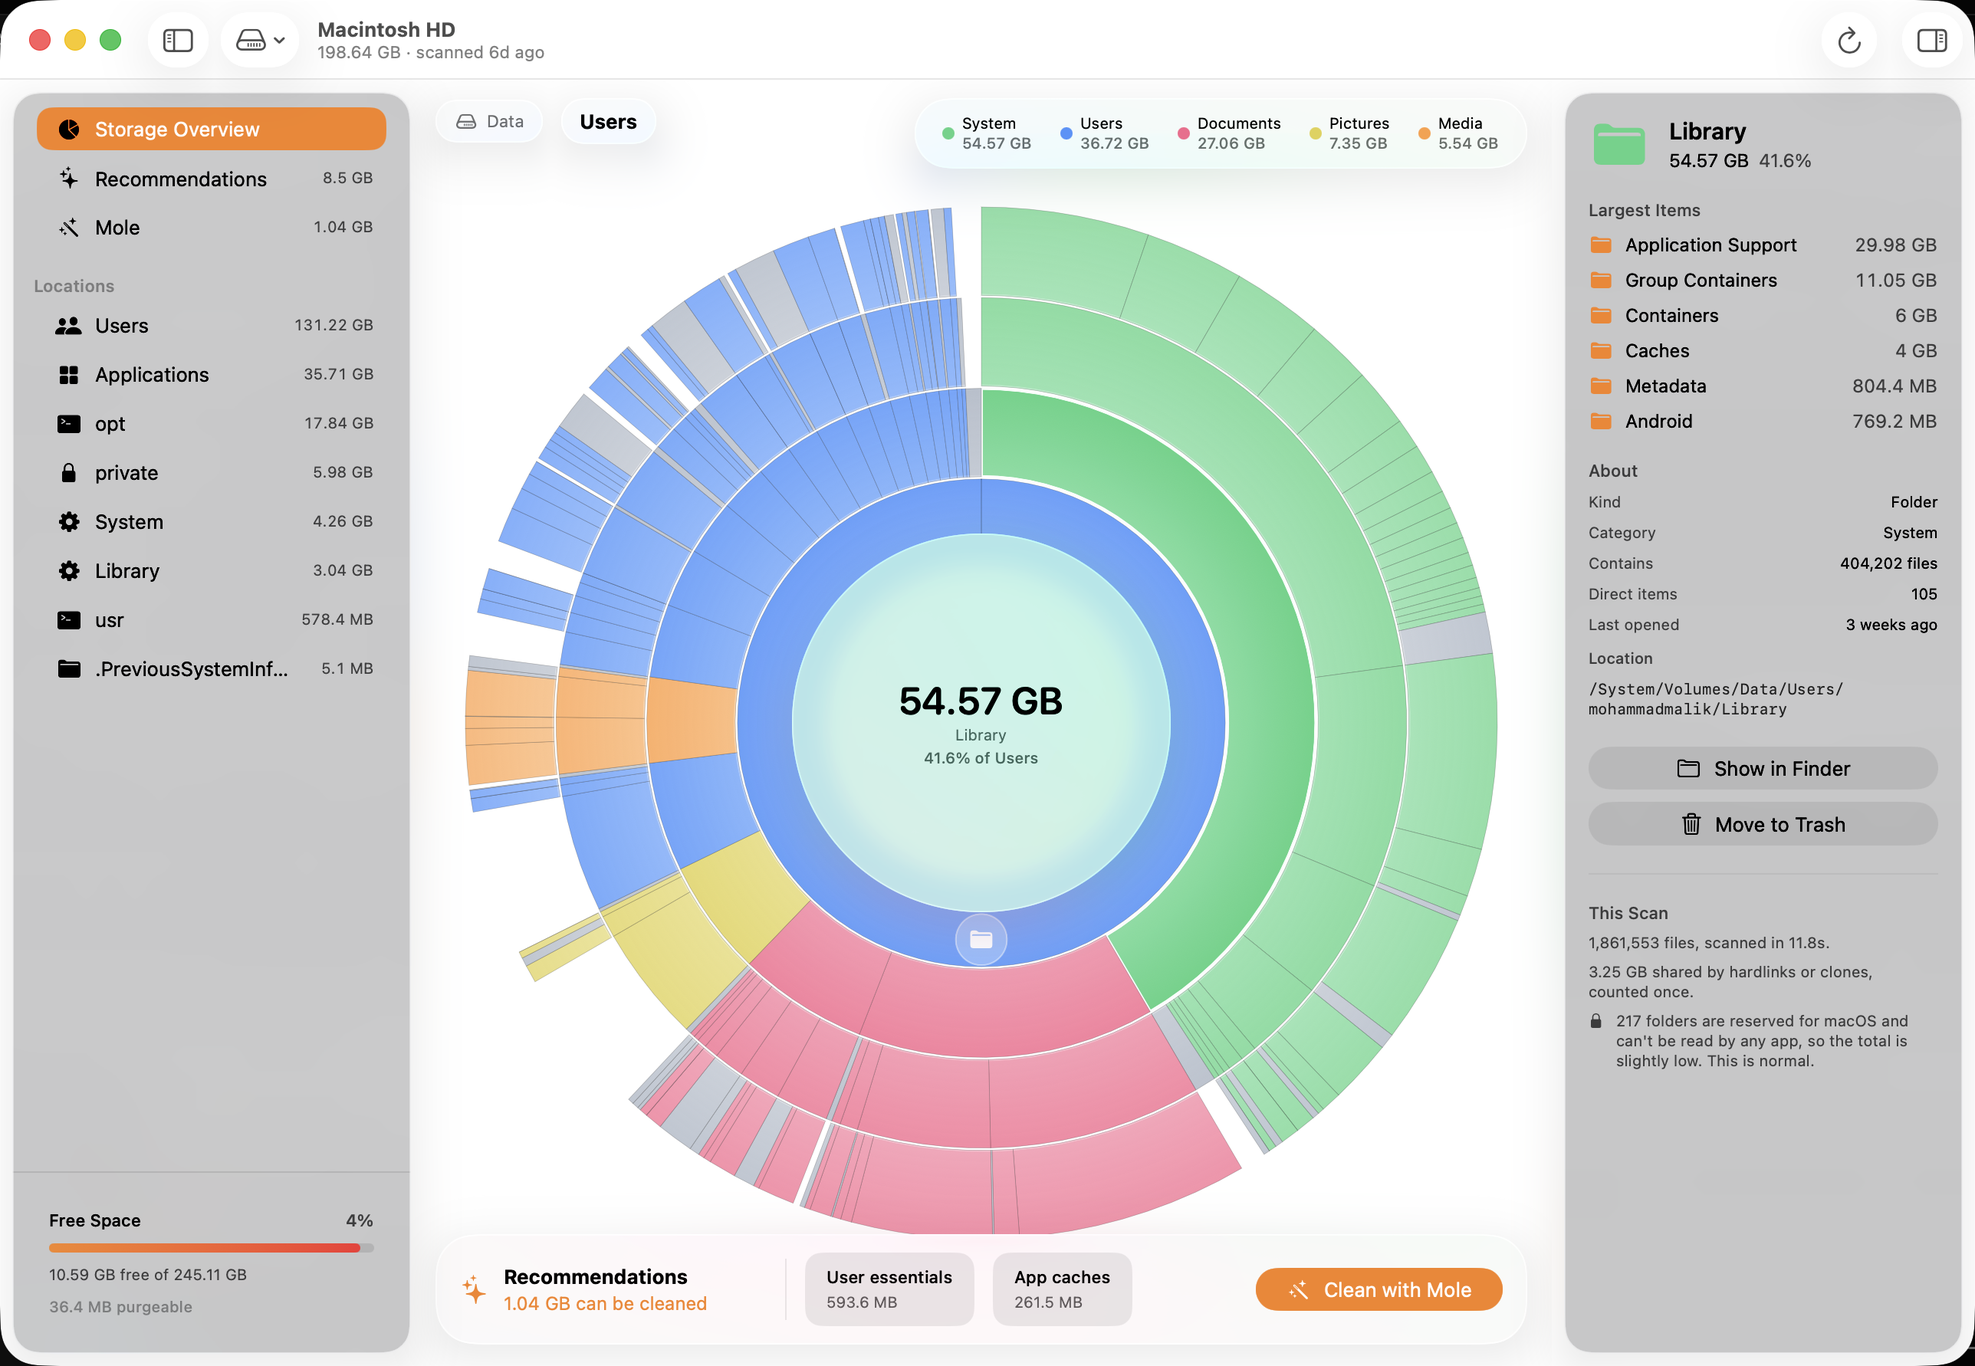
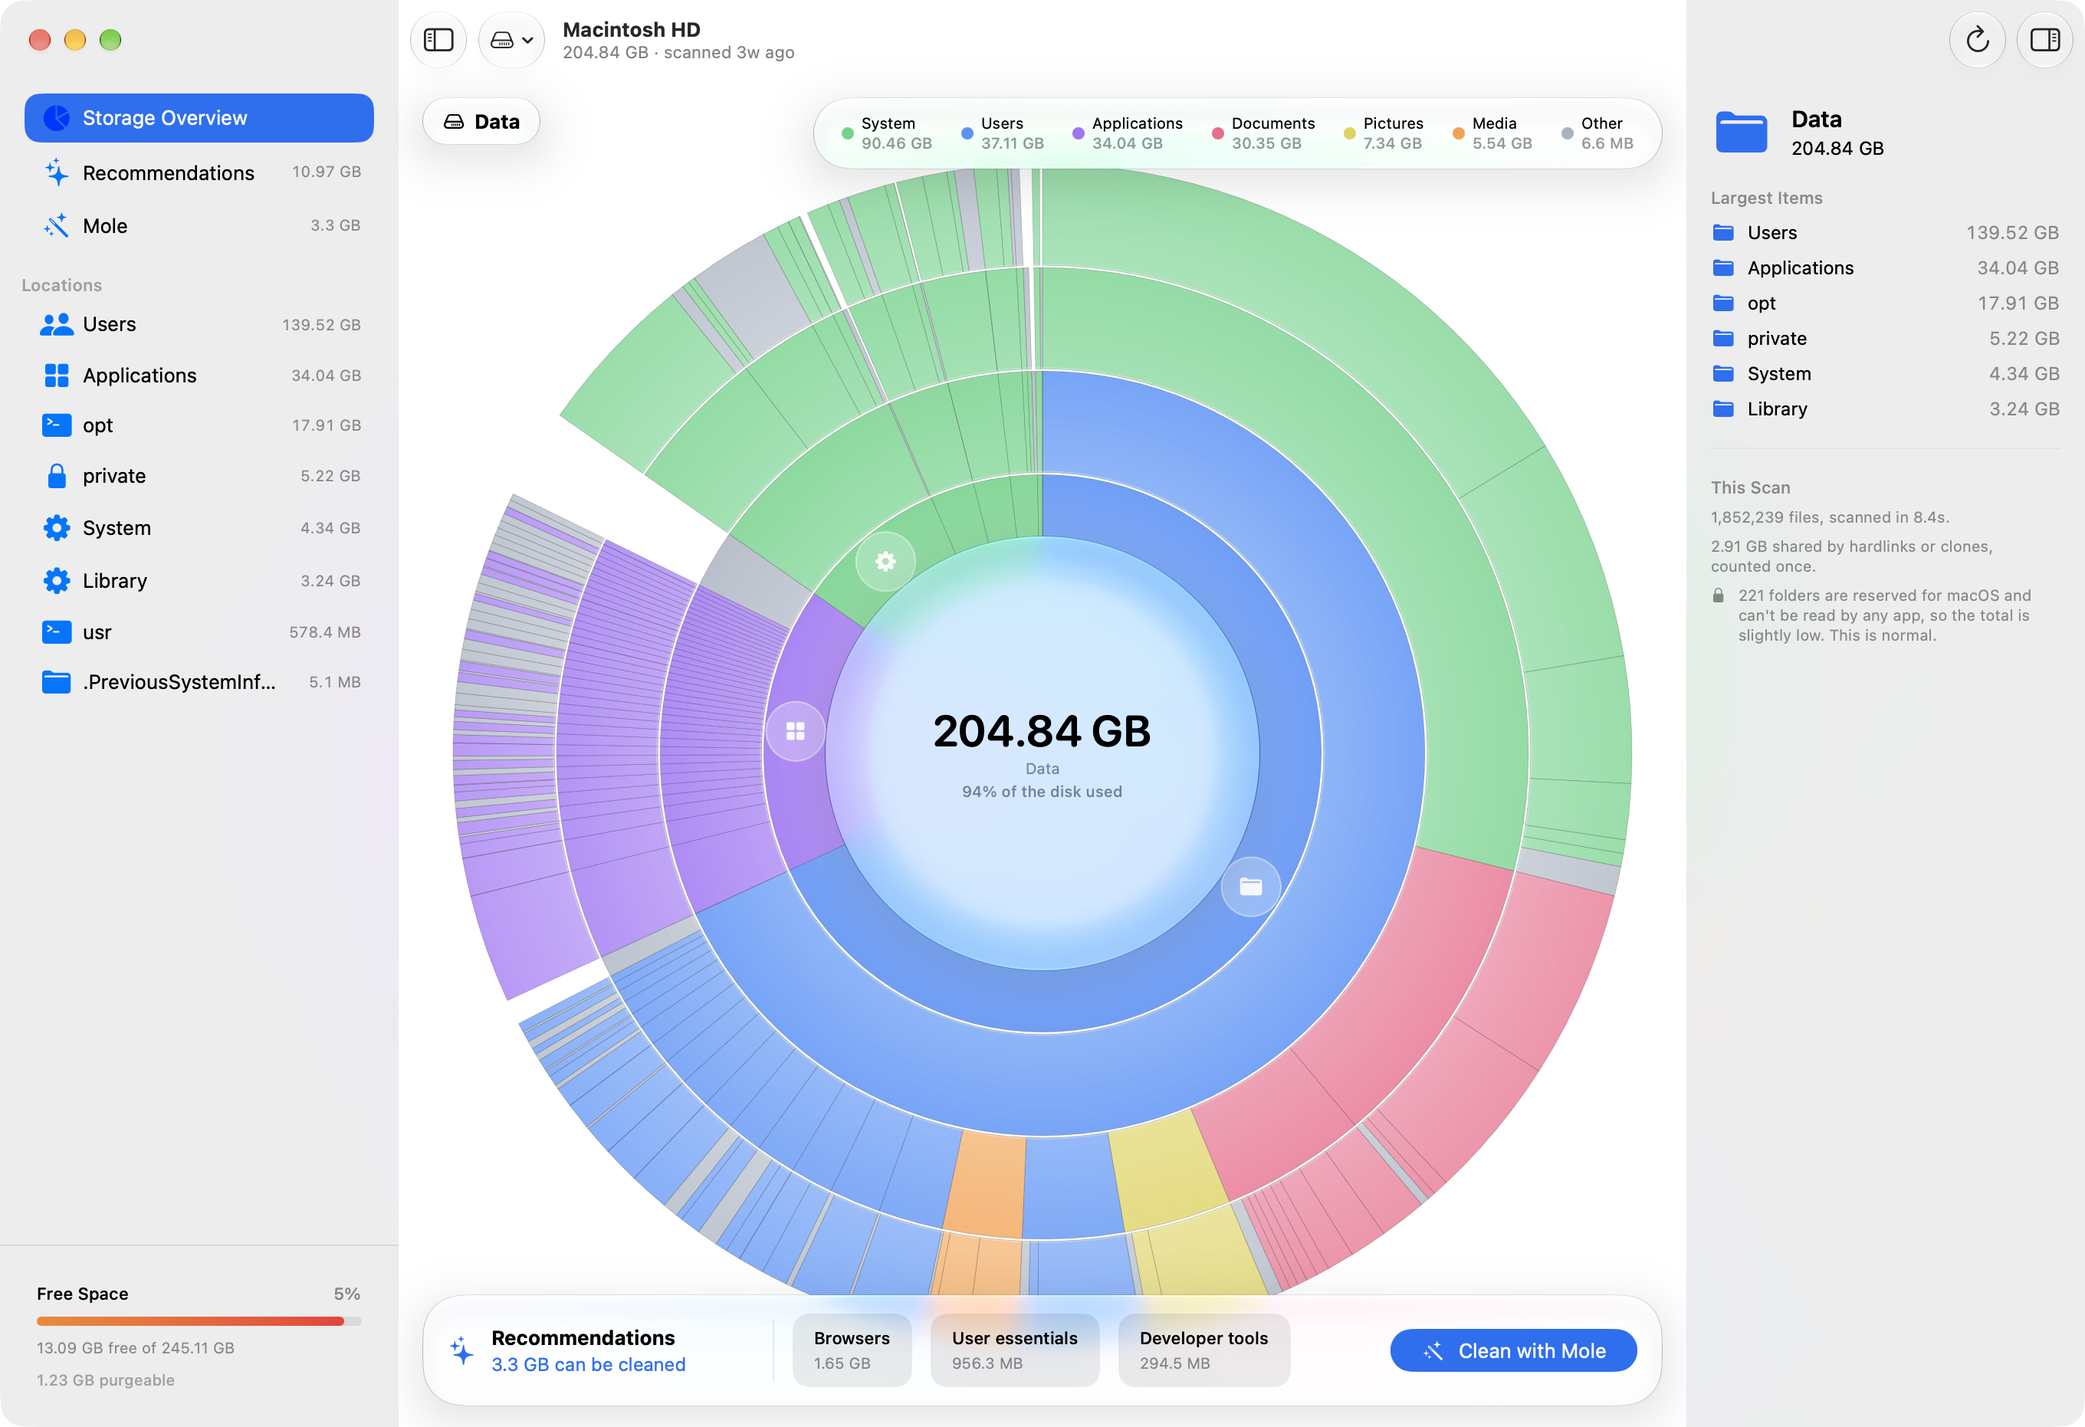
Follow macOS 27's window chrome, and fix the build on it
Three things the new version draws differently, each chosen at launch from the
version actually running so macOS 26 keeps the appearance it shipped with.

A blurred band ran the width of the window under the toolbar, with the
breadcrumb and the legend smeared into it. It is a toolbar's scroll edge
effect: AppKit installs one per titlebar region, hands it to a region whose
items own a scroll view, and gives the rest a full-size one instead. The column
holding the chart has no scroll view, so 27 blurs the column itself. A
transparent titlebar is the only thing that stops it. SwiftUI's
scrollEdgeEffectHidden does nothing from inside the hosted view, at the chart or
at the root, because the effect belongs to the titlebar rather than to the
hosting view, and titlebarSeparatorStyle of .none changes nothing on the item,
the window, or both.

The sidebar and inspector are flush and full height now, the traffic lights
sitting on the sidebar, as Finder and System Settings draw them. That needed the
split view to reach the top of the window, which SwiftUI would not do while the
representable sat inside the window's safe area, and it needed our own
NSVisualEffectView out of the sidebar, which is what Apple's guidance says and
what 27 enforces by drawing the material itself. The 8pt spacer that held the
inspector clear of the window edge collapses to nothing, having existed to
balance an inset the system no longer applies.
[…]

diff --git a/Sources/Disker/Views/Shell/SplitShell.swift b/Sources/Disker/Views/Shell/SplitShell.swift
@@ -2,6 +2,22 @@ import AppKit
 import DiskerCore
 import SwiftUI
 
+/// Which version's window chrome to build.
+///
+/// macOS 26 and 27 disagree about what a sidebar is. On 26 it is an inset panel floating over
+/// the content, rounded on all four corners and held clear of the window edges. On 27 it is
+/// flush: square, hard against the edges, running the full height of the window with the
+/// traffic lights on it, the way System Settings and Finder draw it. The window is built for
+/// whichever one is running rather than picking a side, so 26 keeps the look it shipped with.
+///
+/// Asked at runtime rather than with `#available`, because the app builds against the macOS 26
+/// SDK — the newest the Command Line Tools ship that can compile SwiftUI at all — and
+/// `#available(macOS 27, *)` does not come out true against an SDK that has never heard of 27.
+enum SystemLook {
+    static let isFlushSidebar = ProcessInfo.processInfo.isOperatingSystemAtLeast(
+        OperatingSystemVersion(majorVersion: 27, minorVersion: 0, patchVersion: 0))
+}
+
 /// The window's split view, in AppKit rather than SwiftUI.
 ///
 /// `NavigationSplitView` paints opaque column backgrounds, and SwiftUI offers no way to opt
@@ -54,11 +70,19 @@ struct SplitShell: NSViewControllerRepresentable {
         sidebarItem.minimumThickness = 260
         sidebarItem.maximumThickness = 320
         sidebarItem.canCollapse = true
-        // A full-height sidebar splits the titlebar into two regions, so leading toolbar
-        // items are laid out after the sidebar and slide sideways every time it collapses.
-        // Keeping the sidebar below the titlebar leaves one continuous region, which pins
-        // those items next to the traffic lights.
-        sidebarItem.allowsFullHeightLayout = false
+        // Full height on macOS 27, below the titlebar on 26.
+        //
+        // The two versions want opposite things here. On 26 a sidebar item renders as an inset
+        // panel floating over the content, and a full-height one splits the titlebar into two
+        // regions — which lays the leading toolbar items out after the sidebar so they slide
+        // sideways every time it collapses. Staying below the titlebar avoided that.
+        //
+        // macOS 27 dropped the floating panel: sidebars are flush, and they run the whole
+        // height of the window with the traffic lights sitting on them, as System Settings and
+        // Finder do. Held below the titlebar there, the column reads as a slab that starts in
+        // the wrong place. The separator goes back to automatic to get the hairline the system
+        // draws down the flush edge.
+        sidebarItem.allowsFullHeightLayout = SystemLook.isFlushSidebar
         sidebarItem.titlebarSeparatorStyle = .none
 
         let detailHost = NSHostingController(rootView: DetailView(model: model))
@@ -88,10 +112,9 @@ struct SplitShell: NSViewControllerRepresentable {
         inspectorItem.minimumThickness = 260
         inspectorItem.maximumThickness = 400
         inspectorItem.canCollapse = true
-        // Same reasoning as the leading sidebar: a full-height column would split the titlebar
-        // into separate regions and shift the toolbar items every time it collapses.
-        inspectorItem.allowsFullHeightLayout = false
-        inspectorItem.titlebarSeparatorStyle = .none
+        // Mirrors the leading sidebar on both versions, for the same reasons.
+        inspectorItem.allowsFullHeightLayout = SystemLook.isFlushSidebar
+        inspectorItem.titlebarSeparatorStyle = SystemLook.isFlushSidebar ? .automatic : .none
         inspectorItem.isCollapsed = !inspectorVisible
 
         // Empty, fixed-width, and transparent: purely the gap described on `panelEdgeInset`.
@@ -99,8 +122,12 @@ struct SplitShell: NSViewControllerRepresentable {
         // otherwise leave a bare strip of window between the chart and the window edge.
         let spacerItem = NSSplitViewItem(viewController: NSViewController())
         spacerItem.viewController.view = NSView()
-        spacerItem.minimumThickness = Self.panelEdgeInset
-        spacerItem.maximumThickness = Self.panelEdgeInset
+        // Zero on macOS 27. The gap balanced a panel the system inset from the window on one
+        // side only, and a flush inspector reaches the window edge on purpose — a strip of bare
+        // window beyond it would read as a rendering fault. The item stays in the split view at
+        // no width rather than being dropped, so the column indices below keep their meaning.
+        spacerItem.minimumThickness = SystemLook.isFlushSidebar ? 0 : Self.panelEdgeInset
+        spacerItem.maximumThickness = SystemLook.isFlushSidebar ? 0 : Self.panelEdgeInset
         spacerItem.canCollapse = true
         spacerItem.titlebarSeparatorStyle = .none
         // High, not required. A fixed-thickness item is already pinned by its equal minimum
@@ -174,9 +201,17 @@ struct SplitShell: NSViewControllerRepresentable {
     private static let panelEdgeInset: CGFloat = 8
 
     /// Wraps a hosted view in behind-window vibrancy that honours Reduce Transparency.
+    ///
+    /// Only on macOS 26. Apple's guidance is to keep hand-placed `NSVisualEffectView`s out of
+    /// sidebar hierarchies because they block the system's own material, and on 27 that is
+    /// exactly what happens: the system draws a flush sidebar whose material runs the full
+    /// height of the window, under the traffic lights, and a view of ours pinned to the split
+    /// item's bounds covers it. On 26 the item supplies no behind-window vibrancy of its own,
+    /// which is why this exists at all.
     private func vibrant(
         _ child: NSViewController, material: NSVisualEffectView.Material
     ) -> NSViewController {
+        guard !SystemLook.isFlushSidebar else { return child }
         let container = NSViewController()
         container.view = SidebarBackdrop(content: child.view, material: material)
         container.addChild(child)
@@ -201,6 +236,38 @@ final class InspectorAwareSplitViewController: NSSplitViewController {
     var isApplyingCollapse = false
 
     private var lastKnownCollapse: Bool?
+
+    /// Suppresses the scroll edge effect macOS 27 lays over the chart.
+    ///
+    /// A toolbar's scroll edge effect is the blur it draws over whatever scrolls beneath it.
+    /// AppKit installs one per titlebar region, and a region whose items bring their own — the
+    /// sidebar, whose list is a scroll view — gets a zero-sized one that draws nothing. The
+    /// region holding the chart has no scroll view to hand it to, so on macOS 27 it gets a
+    /// full-size one instead: a 52pt band across the top of the pane that blurs the breadcrumb
+    /// and the legend sitting in it into an unreadable ghost. On 26 that region's effect was
+    /// empty, which is why the band is new.
+    ///
+    /// A transparent titlebar is what stops it being drawn. Nothing else does: SwiftUI's
+    /// `scrollEdgeEffectHidden` has no effect applied from inside the hosted view, at the
+    /// chart or at the root, because the effect belongs to AppKit's titlebar rather than to
+    /// the hosting view; and `titlebarSeparatorStyle` of `.none` on the item, on the window,
+    /// or on both leaves the band exactly as it was.
+    ///
+    /// Nothing is lost by it here. The window is opaque and the split view starts below the
+    /// titlebar, so a transparent titlebar has no content underneath to reveal and the toolbar
+    /// keeps its own material. It is still gated to 27: on 26 there is no band to remove, and
+    /// the safest change to that version's appearance is none at all.
+    ///
+    /// Re-asserted on every layout rather than set once. SwiftUI configures the window it
+    /// hosts this controller in, and does so *after* `viewWillAppear` — set there, the flag is
+    /// silently overwritten and the band comes back.
+    override func viewDidLayout() {
+        super.viewDidLayout()
+        guard SystemLook.isFlushSidebar, let window = view.window,
+            !window.titlebarAppearsTransparent
+        else { return }
+        window.titlebarAppearsTransparent = true
+    }
 
     override func splitViewDidResizeSubviews(_ notification: Notification) {
         super.splitViewDidResizeSubviews(notification)

diff --git a/Sources/Disker/DiskerApp.swift b/Sources/Disker/DiskerApp.swift
@@ -37,6 +37,14 @@ struct ContentView: View {
         SplitShell(
             model: model,
             inspectorVisible: model.showsInspector && model.sectionSupportsInspector)
+        // The split view has to reach the top of the window for the macOS 27 sidebar to look
+        // like a macOS 27 sidebar. SwiftUI lays a representable out inside the window's safe
+        // area, which starts below the titlebar, so the columns began 52pt down and the
+        // sidebar read as a slab with a strip of window above it — where Finder, Settings and
+        // the App Store all run the sidebar to the top edge with the traffic lights on it.
+        // AppKit still insets the *contents* of each column, so nothing ends up under the
+        // toolbar. Empty on macOS 26, where the columns are inset panels by design.
+        .ignoresSafeArea(.container, edges: SystemLook.isFlushSidebar ? .top : [])
         .navigationTitle(model.volume?.name ?? "Disker")
         .navigationSubtitle(subtitle)
         .toolbar { toolbarContent }

diff --git a/CHANGELOG.md b/CHANGELOG.md
@@ -1,5 +1,47 @@
 # Changelog
 
+## v1.8 — 2026-09-20
+
+### macOS 27
+
+- A blurred band ran across the top of the chart, from the sidebar to the far edge of the
+  window, with the breadcrumb and the legend smeared into it. That band is a toolbar's scroll
+  edge effect, the blur macOS lays over whatever scrolls beneath it. macOS 26 only drew one
+  where something actually scrolled, so the chart never had one; 27 draws it over the column
+  whether or not there is a scroll view to attach it to. The window now turns it off for the
+  column holding the chart, and the breadcrumb and legend are legible again.
+- The sidebar and the inspector now run the full height of the window, flush to its edges,
+  with the traffic lights sitting on the sidebar. That is what Finder, System Settings and the
+  App Store do on macOS 27. They used to be inset panels floating over the content, rounded on
+  all four corners, which is what macOS 26 drew and still draws.
+- The 8pt gap that used to hold the inspector clear of the window edge is gone on 27. It
+  existed to balance an inset the system applied to one side of a floating panel, and beside a
+  flush column it read as a strip of bare window.
+- Running on macOS 26 is unchanged. Every one of these is chosen at launch from the version
+  actually running, so the two look the way their own version intends.
+
+### Superseded versions, and a few things inside bundles
+
+- Some folders are only dead once you look at their siblings. A browser extension unpacked
+  into `13.38.2.0_0` means nothing on its own; it means something next to `13.39.0.0_0`, where
+  only the highest version is ever loaded. Suggestions can now read a whole set of siblings and
+  offer the ones that have been superseded, keeping the newest.
+- This covers Chromium extension versions, per-version Gradle caches, superseded app builds,
+  older Android build-tools and platforms, and Arc's snapshots beyond the newest three.
+- Two rules keep it honest. A set of one yields nothing, so the only copy of anything is never
+  offered. And a single sibling that cannot be parsed silences the whole set rather than
+  letting a guess through.
+- Version components compare as numbers rather than as text, so `10` sorts above `9`, and
+  Android platforms order by API level rather than by the name of their directory.
+- A parent folder named `Extensions` is no longer enough on its own. The rule now wants the
+  whole Chromium profile shape around it, because `~/project/Extensions/widget/{1.0,2.0}` is
+  somebody's own versioned folder and the old reading offered `1.0` as safe to delete.
+- Disker can now see inside a bundle, in exactly one place and only for names written down in
+  advance: Logic's freeze files, and the render files a Final Cut library accumulates, which
+  run to hundreds of gigabytes. Nothing else inside any bundle is reachable by any rule, and a
+  test pins that. Re-rendering is the cost of being wrong here, so these are offered for review
+  rather than as safe.
+
 ## v1.7 — 2026-08-23
 
 ### One row for many of the same thing

diff --git a/AGENTS.md b/AGENTS.md
@@ -2,12 +2,31 @@
 
 ## Build and test
 
-Pass `--disable-sandbox` to both:
+Build and test through the scripts, passing `--disable-sandbox` to both:
 
 ```sh
-swift build --disable-sandbox
+./Tools/build.sh --disable-sandbox
 ./Tools/test.sh --disable-sandbox
 ```
+
+A bare `swift build` no longer works on macOS 27, which is why the build goes through a
+script now. Two separate gaps in the macOS 27 Command Line Tools, both handled by the
+flags `Tools/env.sh` supplies:
+
+- No `libSwiftUIMacros.dylib` ships anywhere on the system, so `@State` cannot expand and
+  every SwiftUI file fails with `plugin for module 'SwiftUIMacros' not found`. `env.sh`
+  sets `SDKROOT` to the macOS 26 SDK, which declares `State` as a plain property wrapper
+  rather than a macro and sidesteps the missing plugin. Export `SDKROOT` yourself to
+  override it. `DiskerCore`, `diskerctl` and the tests hold no SwiftUI and compile against
+  either SDK, so only the app target needs this.
+- swift-testing's `libTestingMacros.dylib` sits one directory below the plugins the
+  compiler loads on its own, so `@Test` and `@Suite` fail to expand until `-plugin-path`
+  names it.
+
+One consequence worth knowing before writing a version check: an app built against the
+macOS 26 SDK does not see `#available(macOS 27, *)` as true when running on 27. Ask
+`ProcessInfo.processInfo.isOperatingSystemAtLeast` instead — `SplitShell` does, for the
+titlebar workaround described in its own comments.
 
 SwiftPM sandboxes its own manifest evaluation with `sandbox-exec`, and macOS will not
 nest seatbelt sandboxes. Inside an agent sandbox that means `Package.swift` cannot be
@@ -28,8 +47,23 @@ Tools only. That means no previews, no simulator, and no `xcodebuild`.
 ## Running the app
 
 ```sh
-./Tools/bundle.sh && open build/Disker.app
+SDKROOT=/Library/Developer/CommandLineTools/SDKs/MacOSX26.5.sdk ./Tools/bundle.sh
+open build/Disker.app
 ```
+
+To see a change on screen, capture the window rather than the screen. The window is often
+on another Space, where a full-screen `screencapture` catches everything except the app.
+Read the window id out of the running process and target it:
+
+```sh
+lldb -p $(pgrep -x Disker) --batch -o 'expr -l objc++ -O -i1 -- NSWindow *w=(NSWindow*)[[(id)NSApp windows] objectAtIndex:0]; (id)@(w.windowNumber)' -o detach -o quit
+screencapture -x -o -l <windowNumber> shot.png
+```
+
+The same `lldb` route is the quickest way to test an AppKit hypothesis: poke the property
+on the live window or split view item, capture, and only then write the code. Re-run the
+unmodified control before believing a result, since an inactive window and a `setHidden:`
+that has not been laid out yet both read as a fix that is not there.
 
 `swift build` produces a bare executable. The app needs the bundle layout, icons and
 signature that `bundle.sh` applies, and the signing identity is what preserves Full Disk
